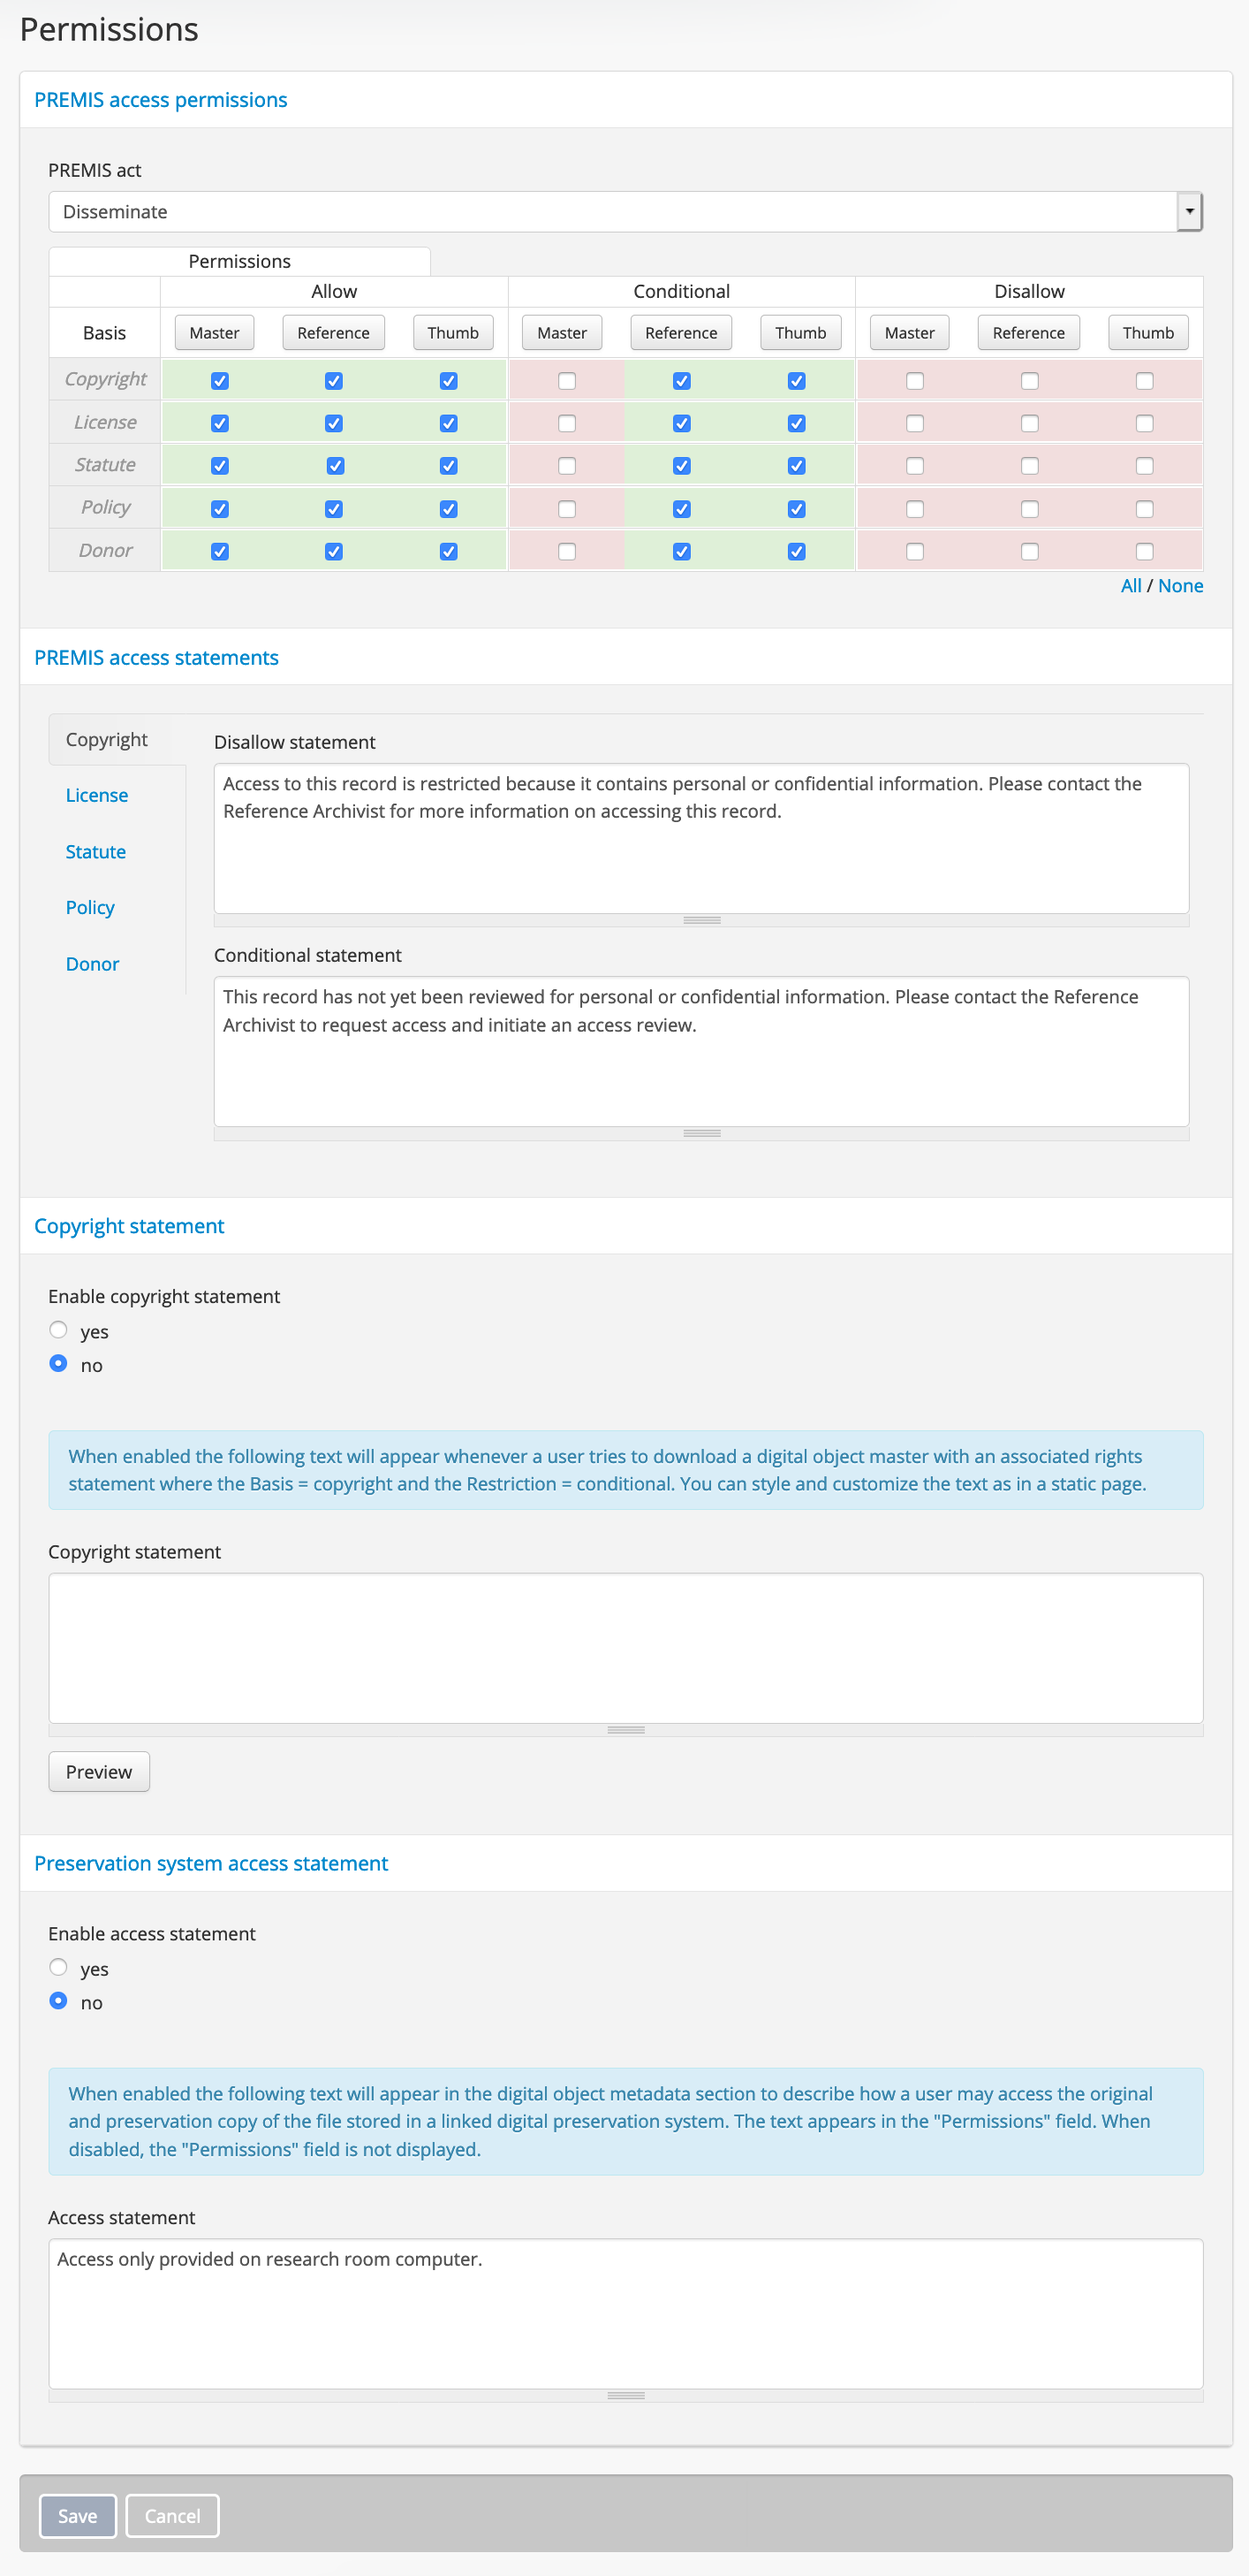
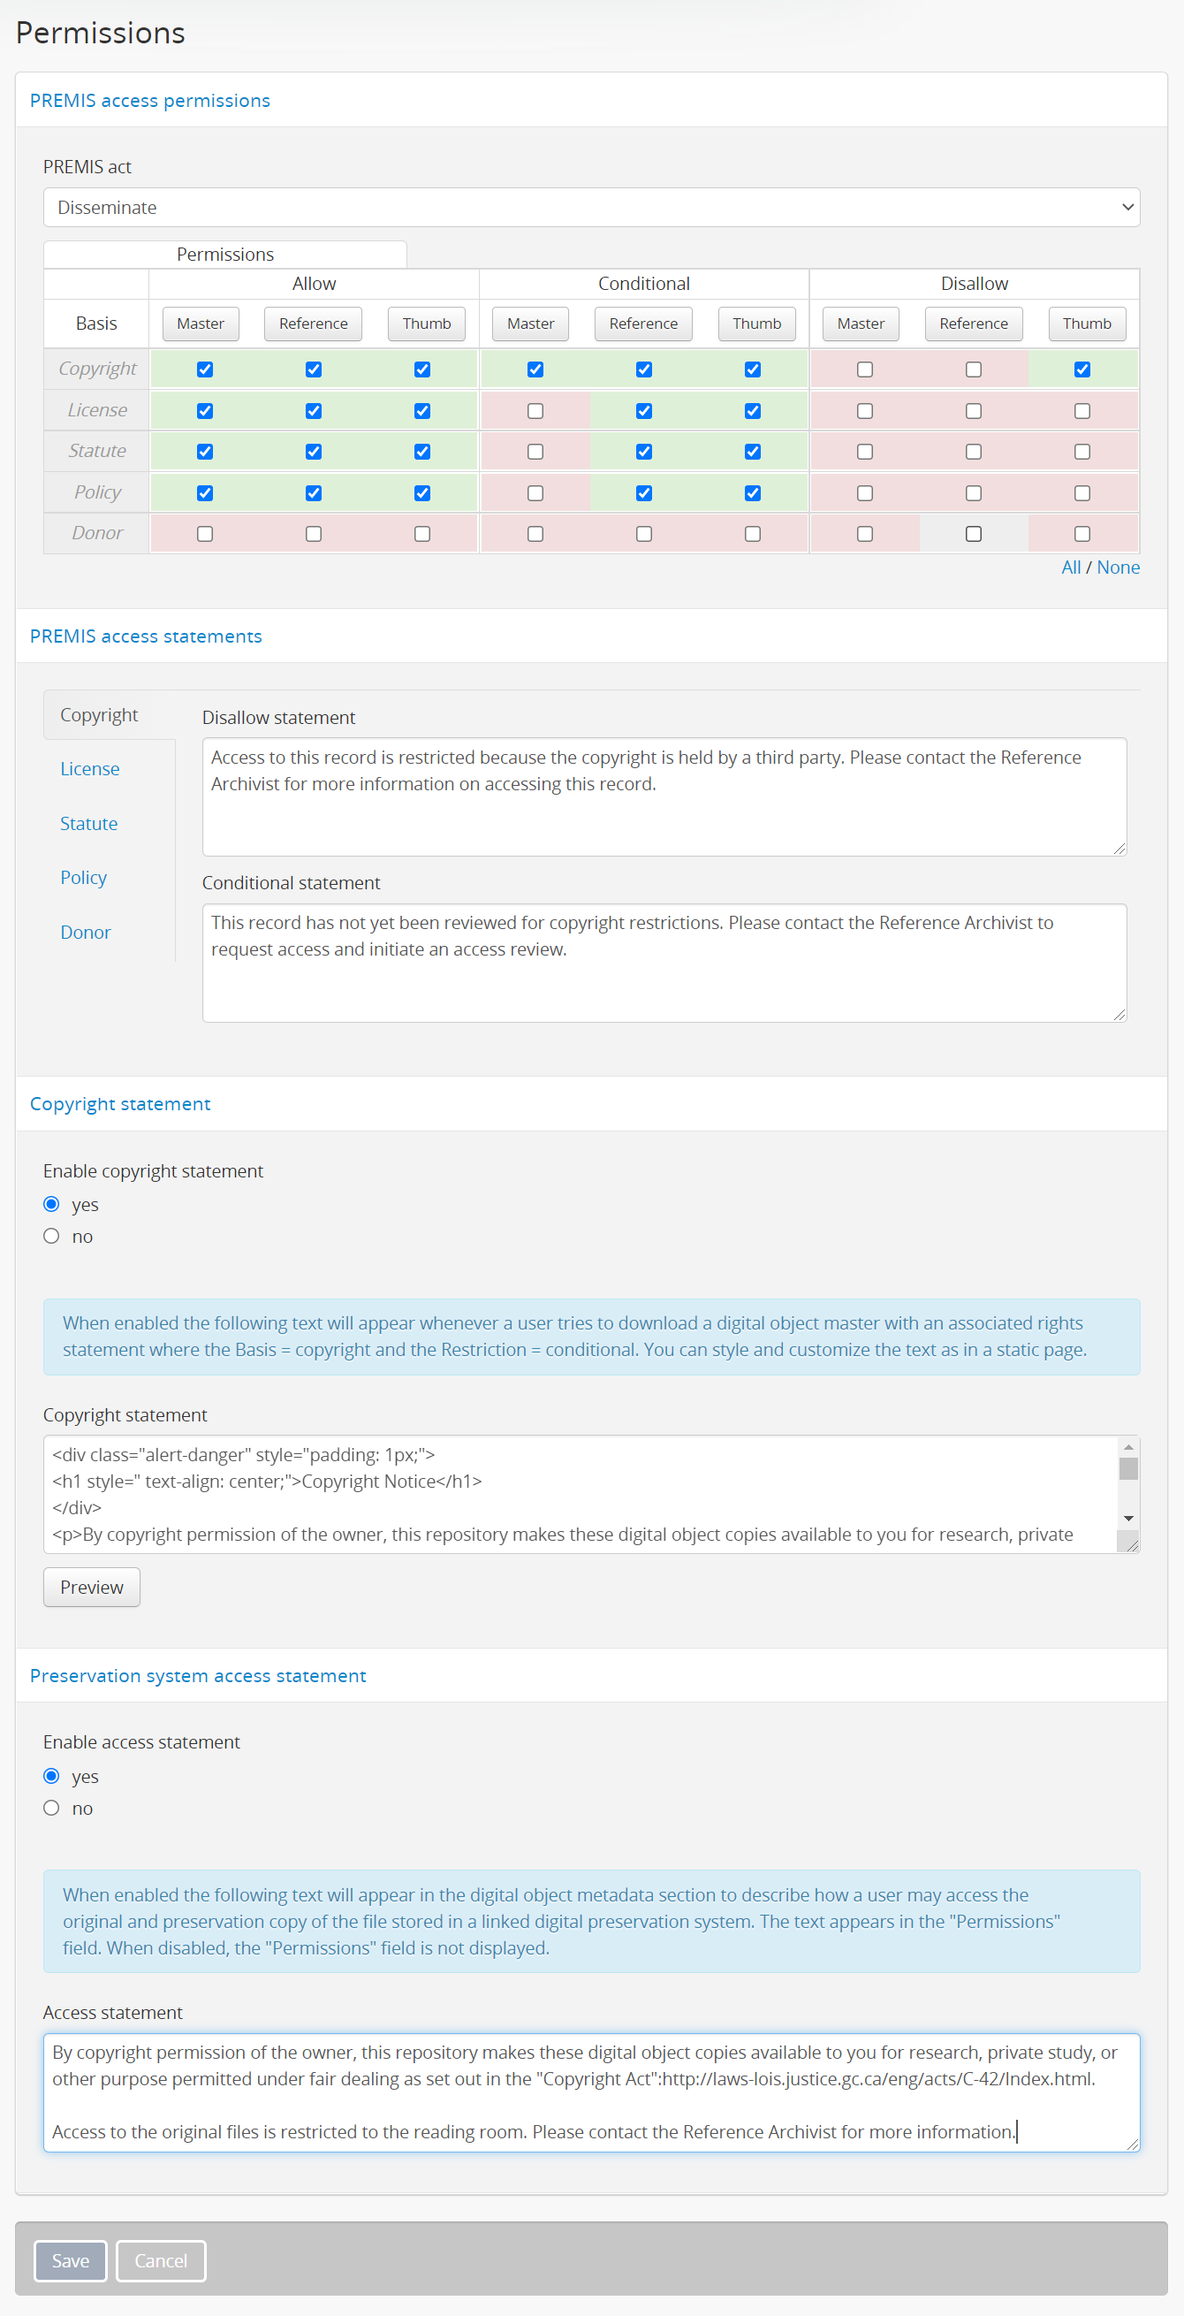
Reorganize and enhance DO and permissions docs

diff --git a/user-manual/add-edit-content/rights.rst b/user-manual/add-edit-content/rights.rst
@@ -43,8 +43,16 @@ rights Basis. See :ref:`rights-digital-object`, below.
 * :ref:`rights-inheritance`
 * :ref:`rights-digital-object`
 * :ref:`disallow-statements`
+* :ref:`preservation-access-statement`
 * :ref:`copyright-pop-up`
 * :ref:`manage-rights-holders`
+
+.. SEEALSO::
+
+   * :ref:`permissions` (settings)
+   * :ref:`upload-digital-object`
+   * :ref:`archival-descriptions`
+   * :ref:`accession-records`
 
 .. _add-rights:
 
@@ -55,8 +63,9 @@ This section describes how to add a new :term:`rights record` by using the
 rights dialog provided through the add/edit template. You must add rights to
 an existing accession record or archival description. To create an accession
 record or archival description first, please see:
-:ref:`Add new accession record <add-new-accession>` or
-:ref:`Add new archival description <add-archival-description>`.
+
+* :ref:`Add new accession record <add-new-accession>`
+* :ref:`Add new archival description <add-archival-description>`
 
 .. NOTE::
 
@@ -273,6 +282,7 @@ from the archival description in view mode:
    confirmation, so be sure to click only when you are positive you wish to
    delete the rights information!
 
+:ref:`Back to top <rights>`
 
 .. _rights-inheritance:
 
@@ -321,6 +331,8 @@ parent record as you indicated.
    Scheduler. If the parent description has many children, it may take some time
    for all of the children to inherit the rights. See :ref:`Manage Jobs <manage-jobs>`
    for more information.
+
+:ref:`Back to top <rights>`
 
 .. _rights-digital-object:
 
@@ -386,7 +398,6 @@ relates to the display of digital objects.
    interpretations. New terms can be added to the Rights act taxonomy as need,
    and unnecessary terms can be altered or deleted. For more information on
    managing terms and taxonomies, see: :ref:`terms`.
-
 
 Next, use the permissions table to indicate whether viewing/downloading
 digital objects should be allowed or disallowed. You will set these permissions for
@@ -471,7 +482,7 @@ it to view/download the original.
 Example: Configuring copyright permissions
 ------------------------------------------
 
-Here is an example use case:
+Here is an example use case: 
 
 Suppose an institution has determined that their digital objects fall into
 3 categories: those that are in the public domain, those that are definitely
@@ -548,6 +559,8 @@ The image will display in its reference representation, but will not be
    For another possible way of dealing with access to digital objects with
    conditional copyright restrictions, see below, :ref:`copyright-pop-up`.
 
+:ref:`Back to top <rights>`
+
 .. _disallow-statements:
 
 Configure Disallowed and Conditional access statements
@@ -562,6 +575,22 @@ customizable access statement in its place:
    :width: 80%
    :alt: Example of an access statement shown when access to a reference
          display copy is restricted via PREMIS rights
+
+Depending on how you have configured the permissions (see above, 
+:ref:`rights-digital-object`), the access statement will also display in the 
+:term:`digital object` metadata :term:`information area` for relevant versions
+of the digital object that are restricted by rights: 
+
+.. image:: images/access-statement-do.*
+   :align: center
+   :width: 80%
+   :alt: Example of an access statement shown in the digital object metadata 
+         area when access to both the master and reference display copy are 
+         restricted via PREMIS rights
+
+.. SEEALSO::
+
+   * :ref:`digital-object-metadata`
 
 Access statements are intended to be user-friendly explanations of why access
 is restricted, and what the user can do (if anything) to gain access (for
@@ -600,6 +629,75 @@ You can customize the access statements for each Rights basis, as needed based
 on local practice. When you have made the edits you want to each Basis tab,
 remember to scroll down and click "Save" in the :term:`button block` at the
 bottom of the page.
+
+:ref:`Back to top <rights>`
+
+.. _preservation-access-statement:
+
+Configure a preservation system access statement
+================================================
+
+.. _Archivematica: https://www.archivematica.org/
+
+In addition to supporting the local upload or linking of 
+:term:`digital objects <digital object>`, Atom also supports basic integration
+with `Archivematica`_, a digital preservation workflow system. When used 
+together, Archivematica can generate access derivatives from preservation files
+to be uploaded in AtoM. For more information, consult the Archivematica 
+documentation:
+
+* :ref:`archivematica:upload-atom`
+
+Since access to preservation files is frequently not publicly available by 
+default, an :term:`administrator` can configure a custom preservation access 
+statement to appear next to preservation metadata displayed in AtoM's digital 
+object metadata :term:`information area`. For more information on the display
+of preservation file metadata in AtoM, see: 
+
+* :ref:`digital-object-preservation`
+
+Access statements are intended to be user-friendly explanations of why access
+is restricted, and what the user can do (if anything) to gain access (for
+example, contact the Reference Archivist, etc). Preservation access statements
+can be configured by an :term:`administrator` separately from the 
+:ref:`Conditional and Disallow access statements <disallow-statements>` via
+AtoM's :ref:`permissions` settings. 
+
+When enabled, this setting will display customizable text about any access
+conditions that might be placed on linked files that are held in an integrated
+preservation system such as `Archivematica`_. Note that these statement only
+appear in the metadata section for original files and preservation copies.
+
+**Using the preservation access statement**
+
+The setting can be accessed by an :term:`administrator` via |gears| **Admin > 
+Settings > Permissions**. See: 
+
+* :ref:`permissions`
+
+To use the access statement, write the notice that applies to your 
+institution in the text field. For example, you may not distribute original 
+files and preservation copies over the Internet but do provide access to them 
+on a dedicated machine in your  reference room. So your preservation system 
+access statement may read: "Access only provided on reference room computer.". 
+
+Toggle the "Enable access statement" option to "yes" and press "Save".
+
+.. image:: images/preservation-system-access-statement.*
+   :align: center
+   :width: 90%
+   :alt: Preservation system access statement
+
+The statement now appears next to a "Permissions" label in the **Digital 
+object metadata > Preservation Copies** section on your archival description 
+view pages.
+
+.. image:: images/preservation-system-access-statement-display.*
+   :align: center
+   :width: 90%
+   :alt: Display of preservation system access statement
+
+:ref:`Back to top <rights>`
 
 .. _copyright-pop-up:
 
@@ -800,6 +898,8 @@ descriptions with associated digital objects, see the section above,
    :ref:`above <rights-digital-object>`. For information on uploading digital
    objects, see: :ref:`upload-digital-object`. For information on the Visible
    elements module, see: :ref:`visible-elements`.
+
+:ref:`Back to top <rights>`
 
 .. _manage-rights-holders:
 

diff --git a/user-manual/administer/settings.rst b/user-manual/administer/settings.rst
@@ -2046,54 +2046,30 @@ make PREMIS rights records in
 attached :term:`digital objects <digital object>`. See :ref:`rights` for more
 information on working with rights in AtoM.
 
-The permissions settings page is divided into 3 sections - PREMIS access
-permissions, PREMIS access statements, and the Copyright statement.
+The permissions settings page is divided into 4 sections:
 
-For information on configuring the PREMIS access permissions, see:
-:ref:`rights-digital-object` (and for an example use case, see:
-:ref:`rights-digital-object-example`). For information on configuring the PREMIS
-access statements, see: :ref:`disallow-statements`. For information on
-configuring and using the Copyright statement, see: :ref:`copyright-pop-up`.
+* PREMIS access permissions
+* PREMIS access statements
+* Copyright statement
+* Preservation system access statement
 
 .. image:: images/permissions-settings.*
    :align: center
    :width: 90%
    :alt: Permissions settings in AtoM
 
-.. _preservation-access-statement:
+For information on configuring the PREMIS access permissions, see:
+:ref:`rights-digital-object` (and for an example use case, see:
+:ref:`rights-digital-object-example`). 
 
-**Preservation system access statement**
+For information on configuring the PREMIS access statements, see: 
+:ref:`disallow-statements`. 
 
-The Permissions page also includes a "Preservation system access statement" 
-setting. When enabled, this will display customizable text about any access 
-conditions that might be placed on linked files that are held in an integrated 
-preservation system such as `Archivematica`_. Note that these statement only 
-appear in the metadata section for original files and preservation copies. For 
-more information see 
-:ref:`Digital object metadata for preservation files <digital-object-preservation>`.
+For information on configuring and using the Copyright statement, see: 
+:ref:`copyright-pop-up`.
 
-To use the condition statement, write the notice that applies to your 
-institution in the text field. For example, you may not distribute original 
-files and preservation copies over the Internet but do provide access to them 
-on a dedicated machine in your  reference room. So your preservation system 
-access statement may read: "Access only provided on reference room computer.". 
-
-Toggle the "Enable access statement" option to "yes" and press "Save".
-
-.. image:: images/preservation-system-access-statement.*
-   :align: center
-   :width: 90%
-   :alt: Preservation system access statement
-
-The statement now appears next to a "Permissions" label in the **Digital 
-object metadata > Preservation Copies** section on your archival description 
-view pages.
-
-.. image:: images/preservation-system-access-statement-display.*
-   :align: center
-   :width: 90%
-   :alt: Display of preservation system access statement
-
+For information on configurating and using the Preservation system access 
+statement, see: :ref:`preservation-access-statement`. 
 
 :ref:`Back to top <settings>`
 

diff --git a/user-manual/import-export/upload-digital-object.rst b/user-manual/import-export/upload-digital-object.rst
@@ -267,7 +267,11 @@ include an "Access Copies" subsection.
 
 8. Access to the "Master file", "Reference copy", and "Thumbnail copy" may be
    overridden by actionable PREMIS rights configured for individual archival 
-   descriptions and their digital object. See :ref:`rights-digital-object`. 
+   descriptions and their digital object. See: 
+
+   * :ref:`rights-digital-object`
+   * :ref:`disallow-statements`
+
    For example, if a PREMIS right is added to an archival description where 
    the "Act" is "Disseminate" and the "Restriction" is "Disallow", then the 
    hyperlinks in the "Digital object metadata" section are no longer active, 
@@ -301,12 +305,13 @@ include an "Access Copies" subsection.
 Digital object metadata for preservation files
 ==============================================
 
+.. _Archivematica: https://www.archivematica.org/
+
 If you or another user of a preservation system (e.g. 
-`Archivematica <https://www.archivematica.org/>`_) has sent a 
-:ref:`DIP upload <archivematica:upload-atom>` to an :term:`archival
-description` :term:`slug` in AtoM then thumbnails for the digital objects 
-in that Dissemenation Information Package (DIP) will be displayed in the 
-archival description's digital object :term:`carousel`.
+`Archivematica`_) has sent a :ref:`DIP upload <archivematica:upload-atom>` to 
+an :term:`archival description` :term:`slug` in AtoM then thumbnails for the 
+digital objects in that Dissemenation Information Package (DIP) will be 
+displayed in the archival description's digital object :term:`carousel`.
 
 .. NOTE::
 
@@ -350,11 +355,9 @@ include a "Preservation Copies" and "Access Copies" subsection.
 
 5. If the preservation action system statement option is enabled, you will
    also see a "Permissions" field with custom text that is populated by an 
-   Administrator user via 
-   **Admin > Settings > Permissions > Preservation system access statement** 
-   (e.g. "Access only provided on research room computer"). For more 
-   information see :ref:`Preservation system access statement 
-   <preservation-access-statement>`.
+   :term:`administrator` via **Admin > Settings > Permissions > Preservation 
+   system access statement** (e.g. "Access only provided on research room 
+   computer"). For more information, see: :ref:`preservation-access-statement`.
 
    .. image:: images/digital-object-preservation-copies-no-access.*
       :align: center
